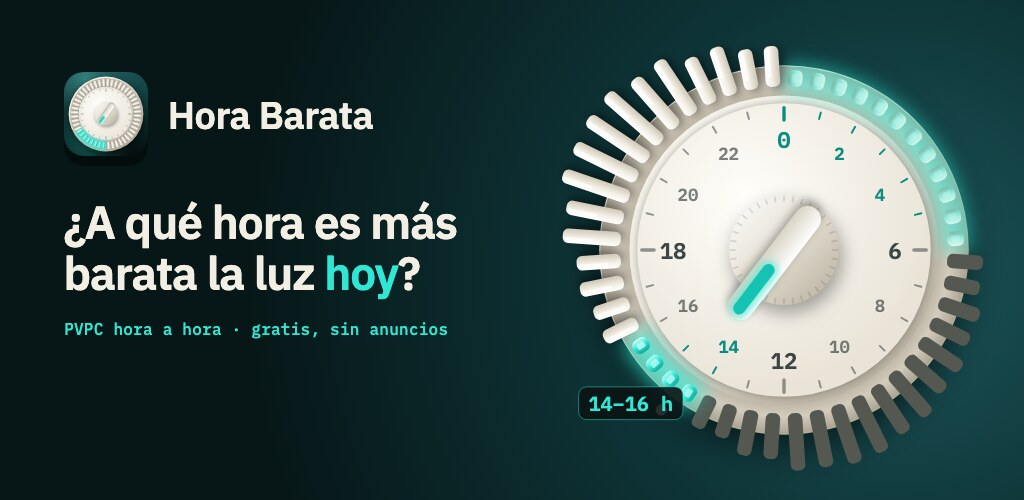
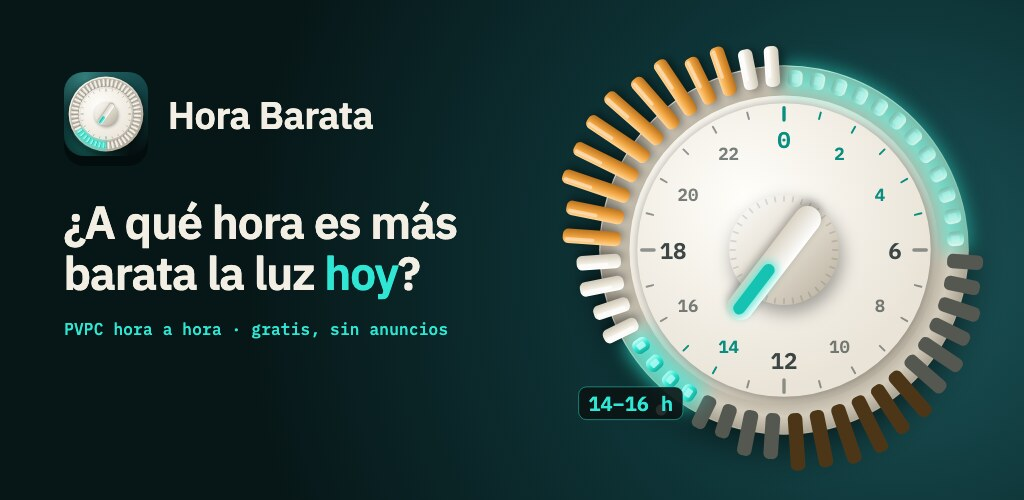
hora-barata: dear hours in amber like the app (legend, bars, stripe), share image with the amber pegs

Changed region(s): [[0.5312, 0.09, 0.7188, 0.51], [0.75, 0.75, 0.9062, 0.93]]

diff --git a/styles.css b/styles.css
@@ -137,7 +137,7 @@
   --stripe: linear-gradient(90deg, #ffb238, #ff8a3d);
 }
 
-/* Hora Barata "Programador": dark teal graphite, turquoise cheap hours (this app only), ivory, IBM Plex (sillapps-elec-es lib/src/core/theme.dart) */
+/* Hora Barata "Programador": dark teal graphite, turquoise cheap hours (this app only), amber dear hours, ivory, IBM Plex (sillapps-elec-es lib/src/core/theme.dart) */
 [data-app="hora-barata"] {
   color-scheme: dark;
   --font-body: "IBM Plex Sans", "Segoe UI", system-ui, sans-serif;
@@ -160,12 +160,12 @@
   --eyebrow: #2ee6d3;
   --cheap: #2ee6d3;
   --normal: #8fa19e;
-  --expensive: #e8d9b8;
+  --expensive: #f2a541;
   --radius-xl: 14px;
   --shadow: 0 28px 80px rgba(0, 0, 0, 0.45);
   --art: radial-gradient(ellipse at 92% -12%, rgba(14, 52, 55, 0.95), transparent 55%),
     radial-gradient(circle at 4% 0%, rgba(46, 230, 211, 0.1), transparent 40%);
-  --stripe: linear-gradient(90deg, #2ee6d3, #2ee6d3 35%, #8fa19e 60%, #f2eee4 90%);
+  --stripe: linear-gradient(90deg, #2ee6d3, #2ee6d3 35%, #8fa19e 60%, #f2a541 90%);
 }
 
 /* Placa Hoy: "Placa de calle", concrete by day, asphalt at night, plate yellow and black,
